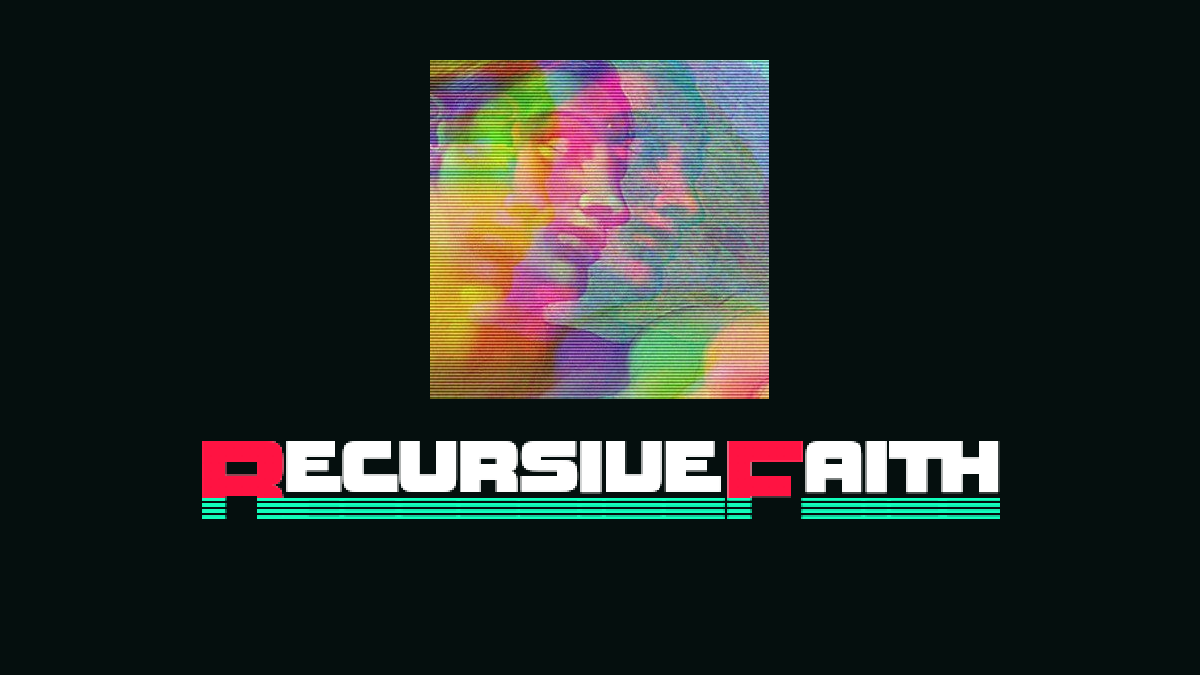
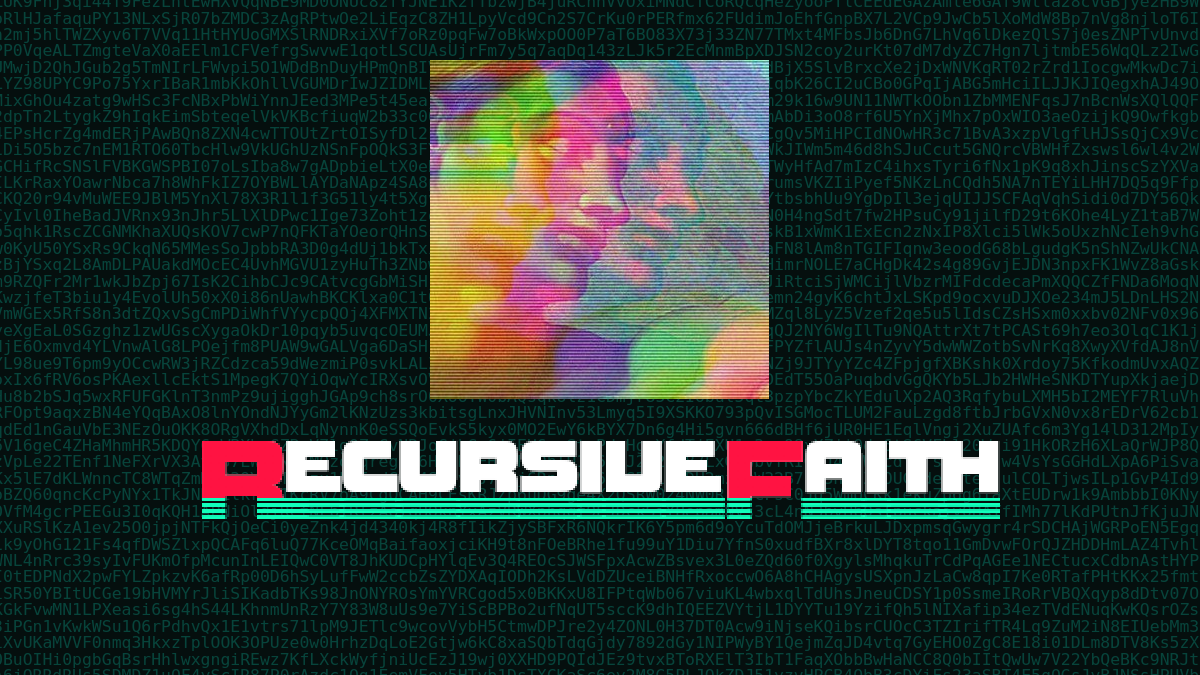
Updated the `content` Git submodule and refreshed the `og-image.png` for the Quartz website. This change is reflected in the changelog and daily history.

diff --git a/dailies/History.md b/dailies/History.md
@@ -333,3 +333,5 @@ https://x.com/taimei_886/status/1959003200650191149
 **2143** `<recursivefaith/content.git>` Updated the README to feature a new `og-image.png` and promote the Quartz website and Morpheus AI Copilot. The commit also marks the favicon update task as complete in the daily history log. 
 **2144** `<recursivefaith/recursivefaith.github.io.git>` Updated the `content` submodule and refreshed the favicon for the Quartz website. 
 **2150** `<recursivefaith/content.git>` Updated the `content` submodule and refreshed the Quartz website's favicon, logging these changes in the changelog and daily history. 
+**2150** `<recursivefaith/recursivefaith.github.io.git>` Updated the `content` git submodule and refreshed the `og-image.png` for the Quartz website. 
+**2152** `<recursivefaith/content.git>` Updated the `content` Git submodule and refreshed the `og-image.png` for the Quartz website. This change is reflected in the changelog and daily history. 

diff --git a/changelog.md b/changelog.md
@@ -60,3 +60,5 @@ title: Changelog
 **2143** `<recursivefaith/content.git>` Updated the README to feature a new `og-image.png` and promote the Quartz website and Morpheus AI Copilot. The commit also marks the favicon update task as complete in the daily history log. 
 **2144** `<recursivefaith/recursivefaith.github.io.git>` Updated the `content` submodule and refreshed the favicon for the Quartz website. 
 **2150** `<recursivefaith/content.git>` Updated the `content` submodule and refreshed the Quartz website's favicon, logging these changes in the changelog and daily history. 
+**2150** `<recursivefaith/recursivefaith.github.io.git>` Updated the `content` git submodule and refreshed the `og-image.png` for the Quartz website. 
+**2152** `<recursivefaith/content.git>` Updated the `content` Git submodule and refreshed the `og-image.png` for the Quartz website. This change is reflected in the changelog and daily history. 
